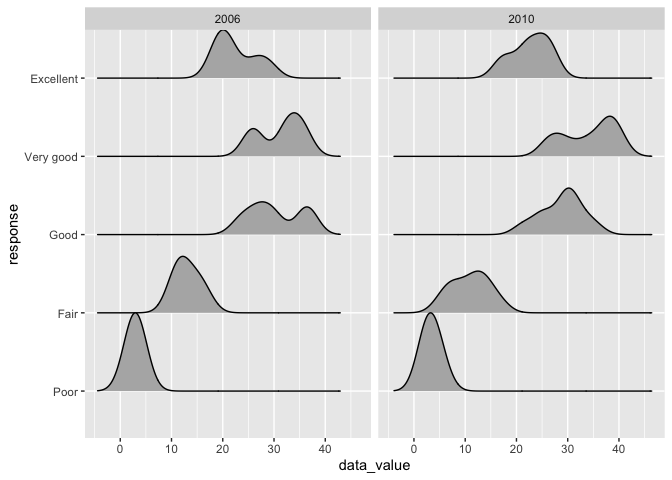
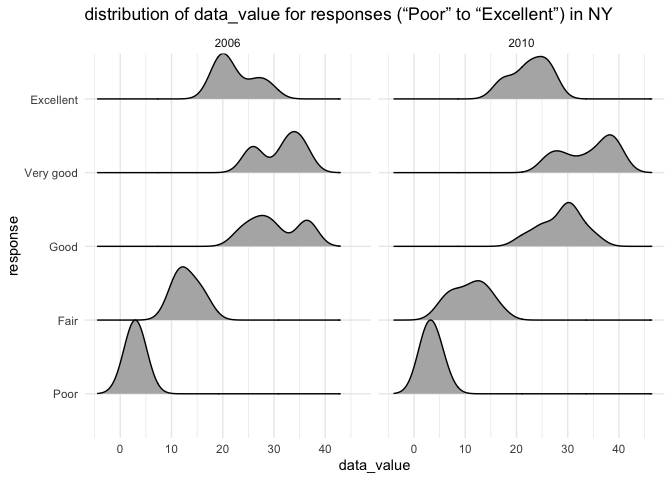
problem 3 finished

diff --git a/p8105_hw3_os2424.md b/p8105_hw3_os2424.md
@@ -181,7 +181,8 @@ brfss_ex <- brfss|>
   geom_line() +
   labs(title = "average value over time within a state",
        x = "year",
-       y = "average data value") 
+       y = "average data value") +
+  theme_minimal()
 brfss_ex
 ```
 
@@ -196,8 +197,10 @@ brfss_pl <- brfss|>
   filter(state == "NY")|>
   # make plot 
   ggplot(aes(data_value, response))+
-  facet_wrap(~ year, ncol = 2) +
-  geom_density_ridges(scale=1)
+  facet_grid(~ year) +
+  geom_density_ridges(scale=1)+
+  labs(title = "distribution of data_value for responses (“Poor” to “Excellent”) in NY")+
+  theme_minimal()
 brfss_pl
 ```
 
@@ -206,3 +209,105 @@ brfss_pl
     ## Picking joint bandwidth of 2.03
 
 ![](p8105_hw3_os2424_files/figure-gfm/unnamed-chunk-10-1.png)<!-- -->
+
+# Problem 3
+
+``` r
+# import data
+covar <- read.csv("./data/nhanes_covar.csv",skip = 4,header = TRUE)
+accel <- read.csv("./data/nhanes_accel.csv")
+# clean data
+covar <- covar|>
+  # exclude participants less than 21
+  filter(age>=21)|>
+  # exclude participants with missing demographic data;
+  na.omit()|>
+  # encode data with reasonable variable classes 
+  mutate(sex = if_else(sex==1, "male", "female"))|>
+  mutate(education = case_when(education == 1 ~ "less than high school",
+                               education == 2 ~ "high school equivalent",
+                               education == 3 ~ "more than high school"))|>
+  mutate(sex = factor(sex, levels= c("male", "female")))|>
+  mutate(education = factor(education, levels = c("less than high school", "high school equivalent","more than high school")))
+# merge data
+merged <- inner_join(covar, accel, by = "SEQN")
+merged <- merged|>
+  janitor::clean_names()
+# make it to a long format
+merged_long <- pivot_longer(merged,
+                            min1:min1440,
+                            names_to = "time",
+                            values_to = "mim")
+```
+
+``` r
+# make table for the number of men and women in each education category
+edu <- merged|>
+  group_by(sex, education)|>
+  summarise(num = n(), .groups = "keep")|>
+  spread(sex, num)
+edu
+```
+
+    ## # A tibble: 3 × 3
+    ## # Groups:   education [3]
+    ##   education               male female
+    ##   <fct>                  <int>  <int>
+    ## 1 less than high school     27     28
+    ## 2 high school equivalent    35     23
+    ## 3 more than high school     56     59
+
+``` r
+# create a visualization of the age distributions for men and women in each education category
+age_edu <- merged|>
+  ggplot(aes(x = age, y = education, fill = sex))+
+  geom_density_ridges(scale = 0.5, alpha = 0.5)+
+  labs(title = "age distributions for men and women in each education category")+
+  theme_minimal()
+age_edu
+```
+
+    ## Picking joint bandwidth of 8.03
+
+![](p8105_hw3_os2424_files/figure-gfm/unnamed-chunk-13-1.png)<!-- -->
+
+``` r
+total_act <- merged_long|>
+  group_by(seqn, sex, age, education)|>
+  # create a total activity variable for each participant
+  summarise(total= sum(mim), .groups = "keep")|>
+  # plot activities
+  ggplot(aes(x = age, y = total, color = sex))+
+  geom_point(alpha = 0.5)+
+  facet_grid(~ education) +
+  # add trend line
+  geom_smooth(se = FALSE) + 
+  labs(title = "age distributions for men and women in each education category",
+       y = "total activity")+
+  theme_minimal()
+total_act
+```
+
+    ## `geom_smooth()` using method = 'loess' and formula = 'y ~ x'
+
+![](p8105_hw3_os2424_files/figure-gfm/unnamed-chunk-14-1.png)<!-- -->
+
+``` r
+# create a visualization of the age distributions for men and women in each education category
+act_24 <- merged_long|>
+  mutate(time = as.numeric(gsub("min", "", time)))|>
+  arrange(time)|>
+  ggplot(aes(x = time, y = mim, color = sex))+
+  geom_point(alpha = 0.5)+
+  facet_grid(~ education) +
+  # add trend line
+  geom_smooth(se = FALSE) + 
+  labs(title = "24-hour activity time courses for each education level",
+       y = "total activity")+
+  theme_minimal()
+act_24
+```
+
+    ## `geom_smooth()` using method = 'gam' and formula = 'y ~ s(x, bs = "cs")'
+
+![](p8105_hw3_os2424_files/figure-gfm/unnamed-chunk-15-1.png)<!-- -->
